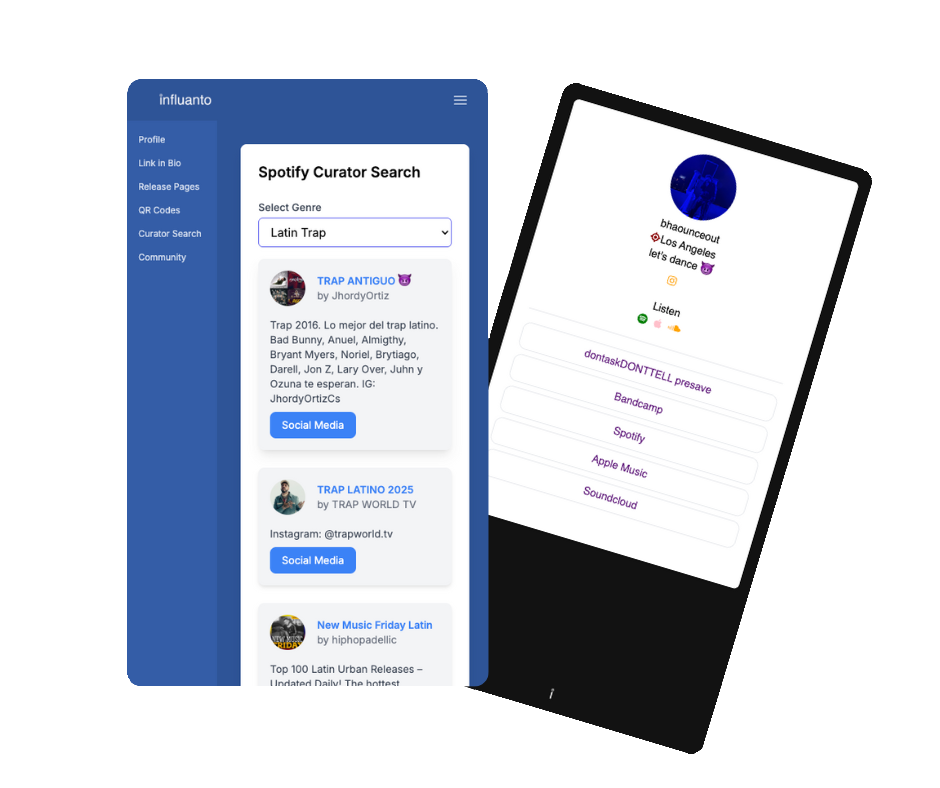
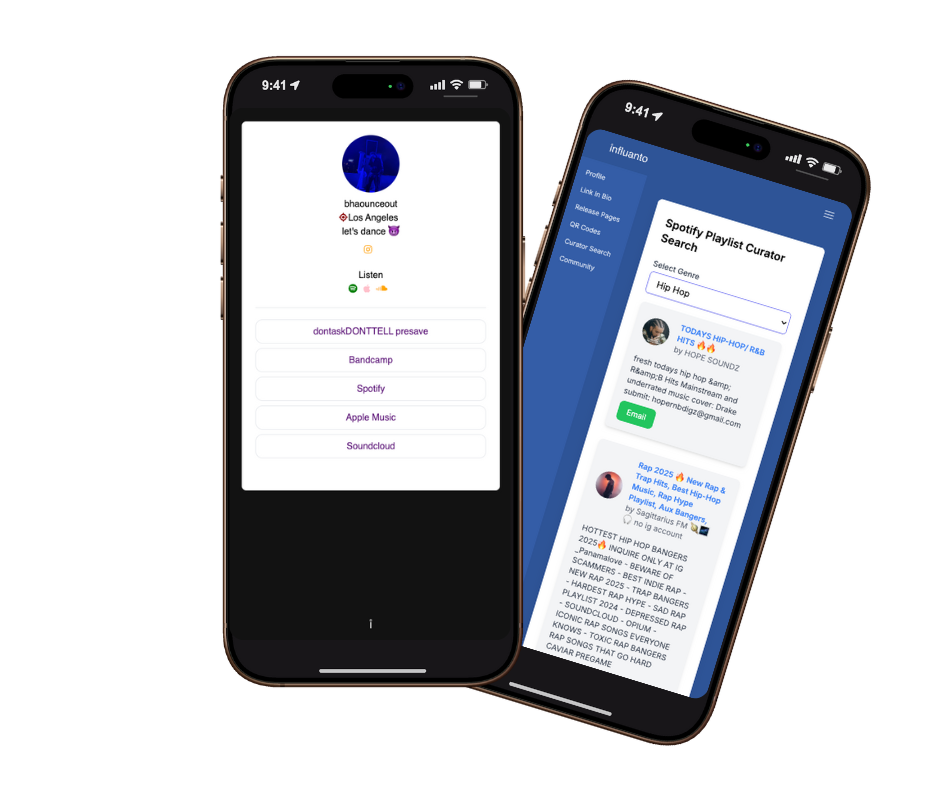
release page astylhes

diff --git a/app/release/[slug]/page.tsx b/app/release/[slug]/page.tsx
@@ -266,7 +266,7 @@ const getReleasePage = async () => {
         marginTop: "40px", 
         marginBottom: "40px",
         width: "100%",
-        maxWidth: window.innerWidth <= 768 ? "80%" : "60%",
+        maxWidth: window.innerWidth <= 768 ? "95%" : "60%",
         margin: "40px auto"
       }}>
         <div style={{ 
@@ -455,25 +455,39 @@ const getReleasePage = async () => {
             ...(window.innerWidth <= 768 ? { width: "80%" } : {}),
           }}
         >
-          {/* Display releasePage.video at the top if it exists */}
-          {releasePage.video && (
-            <div style={{ marginBottom: "30px" }}>
-              <iframe
-                width="100%"
-                height="315"
-                style={{ 
-                  maxWidth: "100%", 
-                  borderRadius: "12px", 
-                  marginBottom: "20px" 
-                }}
-                src={getYouTubeEmbedUrl(releasePage.video)}
-                frameBorder="0"
-                allow="accelerometer; autoplay; clipboard-write; encrypted-media; gyroscope; picture-in-picture"
-                allowFullScreen
-                title="Featured Video"
-              />
-            </div>
-          )}
+       
+{/* Display releasePage.video at the top if it exists */}
+{releasePage.video && (
+  <div style={{ marginBottom: "30px" }}>
+    <div 
+      className="video-responsive"
+      style={{
+        position: "relative",
+        paddingBottom: "56.25%", // 16:9 aspect ratio (9/16 = 0.5625)
+        height: 0,
+        overflow: "hidden",
+        borderRadius: "12px",
+        backgroundColor: "#000"
+      }}
+    >
+      <iframe
+        style={{ 
+          position: "absolute",
+          top: 0,
+          left: 0,
+          width: "100%",
+          height: "100%",
+          border: "none"
+        }}
+        src={getYouTubeEmbedUrl(releasePage.video)}
+        frameBorder="0"
+        allow="accelerometer; autoplay; clipboard-write; encrypted-media; gyroscope; picture-in-picture"
+        allowFullScreen
+        title="Featured Video"
+      />
+    </div>
+  </div>
+)}
 
           {/* Render ALL links (including YouTube) as regular links */}
           {releasePage.links?.map((link: { url: string; name: string }, index: number) => {

diff --git a/components/FeaturesAccordion.tsx b/components/FeaturesAccordion.tsx
@@ -3,7 +3,7 @@
 import { useState, useRef } from "react";
 import type { JSX } from "react";
 import Image from "next/image";
-import image from "@/app/QRCode.jpg";
+import image from "@/app/qrcode.png";
 import playlist from "@/app/Playlist.png";
 import link from "@/app/linkInBio.png";
 

diff --git a/components/Hero.tsx b/components/Hero.tsx
@@ -33,8 +33,8 @@ const Hero = () => {
           alt="artist image"
           className="w-full"
           priority={true}
-          width={500}
-          height={500}
+          width={250}
+          height={250}
         />
       </div>
     </section>
